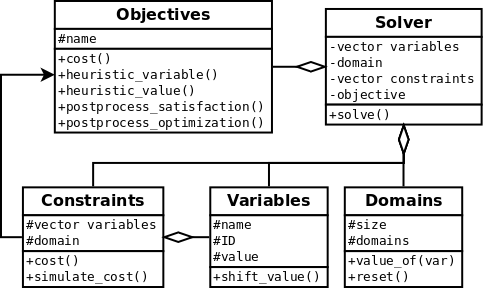
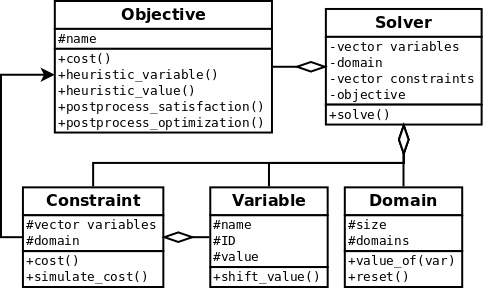
Finish (?) ghost archtecture

diff --git a/paper/ghost.tex b/paper/ghost.tex
@@ -25,7 +25,12 @@
 \fi
 
 \usepackage[cmex10]{amsmath}
-\usepackage{algorithmic}
+%\usepackage{algorithmic}
+\usepackage{algorithm}
+\usepackage{algorithmicx}
+\usepackage{algpseudocode}
+\usepackage{listings}
+
 \usepackage{array}
 \usepackage{xspace}
 \usepackage{amssymb, stmaryrd, algorithm, mathrsfs}
@@ -39,7 +44,15 @@
 %\usepackage[caption=false,font=footnotesize]{subfig}
 \usepackage{fixltx2e}
 \usepackage{stfloats}
-\usepackage{url}
+%\usepackage{url}\newcommand{\urlb}[1]{{\color{blue}\url{#1}}}
+\usepackage{color, xcolor}
+\usepackage{hyperref}
+\hypersetup{
+  colorlinks   = true, %Colours links instead of ugly boxes
+  urlcolor     = blue, %Colour for external hyperlinks
+  linkcolor    = blue, %Colour of internal links
+  citecolor   = red %Colour of citations
+}
 
 \usepackage{amssymb}\newcommand{\todonote}[1]{\footnote{\color{red}TODO: #1}\marginpar[\color{red}\hfill$\blacktriangleright$]{\color{red}$\blacktriangleleft$\hfill}}
 
@@ -79,6 +92,16 @@
 \hyphenation{op-tical net-works semi-conduc-tor}
 
 \begin{document}
+
+\lstset{
+  language=[ISO]C++,
+  basicstyle=\footnotesize,
+  keywordstyle=\color{red}\bfseries,
+  commentstyle=\color{violet}\textit,
+  stringstyle=\color{blue}\ttfamily
+}%,labelstyle=\tiny}
+
+
 %
 % paper title
 % can use linebreaks \\ within to get better formatting as desired
@@ -137,8 +160,8 @@ This paper presents ...
 \end{abstract}
 
 \begin{IEEEkeywords}
-Game AI, Real-Time Strategy, StarCraft, CSP, COP
-
+Game   AI,   Real-Time   Strategy,  StarCraft,   CSP,   COP,   Solver,
+Optimization, Combinatorics.
 \end{IEEEkeywords}
 
 % For peer review papers, you can put extra information on the cover
@@ -158,7 +181,8 @@ Game AI, Real-Time Strategy, StarCraft, CSP, COP
 Refer to \cite{OntanonSURCM13}
 
 
-\section{\ghost: A General meta-Heuristic Optimization Solving Tool}\label{sec:ghost}
+\section{\ghost:   A  General   meta-Heuristic  Optimization   Solving
+  Tool}\label{sec:ghost}
 \subsection{A brief introduction to \csp / \cop}
 
 Constraint  Satisfaction Problems  (\csp) and  Constraint Optimization
@@ -237,20 +261,95 @@ we  have  chosen  Adaptive  Search  is that,  although  it  is  not  a
 well-known algorithm, it is one  of the fastest meta-heuristics at the
 moment, up to our knowledge~\cite{Caniou14}.
 
+In  the next  sections,  we  will see  that  looking  for the  optimal
+solution is not always an  interesting strategy for RTS games. Indeed,
+it is sufficient to have a solution ``optimal enough'' in some tens of
+milliseconds   rather  than   spending  seconds   to  find   a  global
+optimum. The results  we obtain with \ghost on  different problems are
+very good, and  even often better than results the  reader can find in
+the current literature.
 
 \subsection{\ghost architecture}
 
-Without  loss  of  generality,  \ghost  always  try  to  minimize  the
-objective function  $f$. This  is trivially possible  since maximizing
-$f$ corresponds to minimizing $1 / f$.
+\ghost is a template C++ solver\footnote{\href{https://github.com/richoux/GHOST}{github.com/richoux/GHOST}}, under the GNU GPL v3 licence, designed to solve any kind of
+RTS-related problems,  as soon as  they are modeled  into a \csp  or a
+\cop. Two different users are targeted:
 
-\begin{figure}
+\begin{itemize}
+\item  The casual  user, who  only wants  to use  \ghost to  solve an
+  already encoded problem,  like the three problems  presented in next
+  sections.  The user only need  to instantiate variables, the domain,
+  constraints and eventually an objective  to describe the instance of
+  his problem, and  call the function \texttt{solve} of  the solver to
+  run the  search. This is  done in 5 short  C++ lines.
+\item The developer user, who has  a specific problem not written with
+  \ghost  yet.  \ghost  has  been designed  to  easily implements  new
+  problems without changing  a single line in the  solver, and without
+  expertise needed  in Constraint  Programming.  Also, our  solver has
+  been  designed to  have  as  few parameters  as  possible, to  avoid
+  tedious  and  time-consuming   parameters  tuning  before  obtaining
+  interesting results.   Actually, experiments  presented in  the next
+  sections shown that  no parameters tuning is necessary  to have good
+  performance:  The only  real parameter  of the  solver is  set to  a
+  default  value  that   leaded  to  the  best  results   in  all  our
+  experiments. Of course, it remains  possible to change this value by
+  the developed user.
+\end{itemize}
+
+\ghost    is    implemented    around   five    main    C++    classes
+(Fig.~\ref{fig:ghost}):    \texttt{Variable,    Domain,    Constraint,
+  Objective}                                                       and
+\texttt{Solver}\footnote{\href{http://richoux.github.io/GHOST/}{See
+    \ghost manual pages for more details: richoux.github.io/GHOST/}}.
+
+A developed user  has to build his own classes  upon theses first four
+ones,  by inheriting  from  it. For  instance, to  create  a class  of
+variables     representing     units,      this     is     done     by
+\texttt{class~Unit~:~public~Variable}.   Classes  composed  for  other
+classes, like \texttt{Domain} which need  to know on what variables it
+will work with, must instantiate  the right templates. Thus, declaring
+the   domain   for  the   target   selection   problem  is   done   by
+\texttt{class~TargetDomain~:~public~Domain<Unit>}.
+
+Concerning objective  functions, \ghost has been  designed to minimize
+their  value.  If  a developer  user  needs to  maximize an  objective
+function $f$,  this can be  simply adapted  to \ghost by  defining the
+objective function $1/f$.
+
+Implementation  of new  problems are  welcomed to  be integrated  into
+\ghost.
+
+At the  moment these lines are  written, \ghost is not  yet a library,
+but it should be turned into a library in the next few months. 
+
+\begin{figure}[tba]
   \centering
   \includegraphics[width=\columnwidth]{figs/ghost.png}
   \caption{A simplified class diagram of \ghost}
   \label{fig:ghost}
 \end{figure}
 
+% \begin{figure*}
+%   \begin{lstlisting}
+% vector< Unit > variables = { ... }
+% vector< UnitEnemy  > enemies  = {  ... }  //specific  to the target selection problem
+% TargetSelectionDomain domain( variables.size(), &enemies );
+% vector< shared_ptr<TargetSelectionConstraint> > vecConstraints
+%       { make_shared<TargetSelectionConstraint>( &vec, &domain ) };
+% shared_ptr<TargetSelectionObjective> objective =
+%       make_shared<MaxDamage>();
+% Solver<Unit, TargetSelectionDomain, TargetSelectionConstraint>
+%       solver( &vec, &domain, vecConstraints, objective );
+% solver.solve();
+% \end{lstlisting}
+  
+%   \centering
+%   \includegraphics[width=\linewidth]{figs/solve.png}
+
+%   \caption{Example  of  a  casual  use   of  \ghost,  for  the  target
+%     selection problem}
+%   \label{algo:casual}
+% \end{figure*}
 
 \section{Reactive control problem: The target selection}\label{sec:target}
 Refer to ???

diff --git a/paper/figs/solve.cpp b/paper/figs/solve.cpp
@@ -1,0 +1,11 @@
+vector< Unit > variables = { ... }
+vector< UnitEnemy  > enemies  = {  ... }  //specific  to the target selection problem
+TargetSelectionDomain domain( variables.size(), &enemies );
+vector< shared_ptr<TargetSelectionConstraint> > vecConstraints
+      { make_shared<TargetSelectionConstraint>( &vec, &domain ) };
+shared_ptr<TargetSelectionObjective> objective =
+      make_shared<MaxDamage>();
+Solver<Unit, TargetSelectionDomain, TargetSelectionConstraint>
+      solver( &vec, &domain, vecConstraints, objective );
+solver.solve();
+
